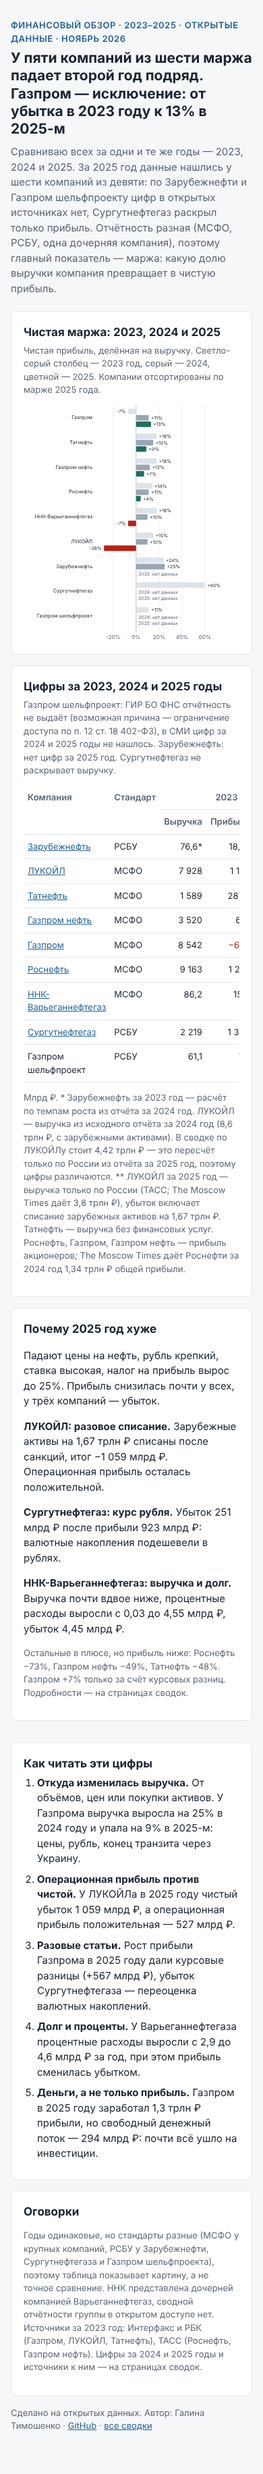
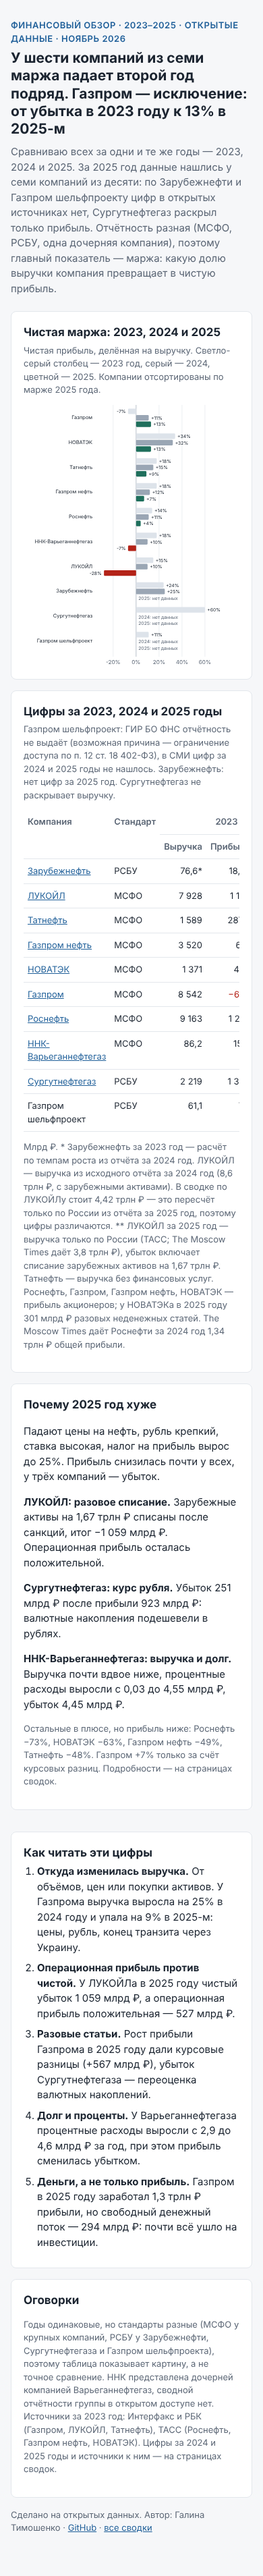
Сводка НОВАТЭК, НОВАТЭК в финансовом обзоре
Claude-Session: https://claude.ai/code/session_01HLBRy9kaRYRXUPTVXYMpj6

Changed region(s): [[0.0308, 0.0, 0.9231, 0.9951]]

diff --git a/novatek/index.html b/novatek/index.html
@@ -1,0 +1,168 @@
+<!doctype html>
+<html lang="ru">
+<head>
+<meta charset="utf-8">
+<meta name="viewport" content="width=device-width,initial-scale=1,viewport-fit=cover">
+<title>НОВАТЭК: сводка руководителя</title>
+<meta name="description" content="Сводка по НОВАТЭКу на открытых данных: МСФО 2023–2026, добыча, «Арктик СПГ 2», дивиденды. Подготовила Галина Тимошенко.">
+<style>
+:root{--red:#0B5CA8;--red-d:#0A3D6E;--ink:#1d1d1f;--mut:#6b6b70;--line:#e6e6e9;--bg:#ffffff;--soft:#eaf2fb;--amber:#C98A00;--green:#2E7D4F}
+*{box-sizing:border-box}
+body{margin:0;background:var(--bg);color:var(--ink);font:15px/1.5 -apple-system,"Segoe UI",Roboto,Arial,sans-serif}
+.wrap{max-width:1080px;margin:0 auto;padding:0 16px}
+header{background:#0A3D6E;color:#fff;padding:28px 0 22px}
+.kicker{font-size:13px;letter-spacing:.06em;text-transform:uppercase;opacity:.85}
+h1{font-size:28px;line-height:1.2;margin:6px 0 18px;max-width:880px}
+.kpis{display:grid;grid-template-columns:repeat(4,1fr);gap:12px}
+.kpi{background:#fff;color:var(--ink);border-radius:10px;padding:14px 14px 12px}
+.kpi b{display:block;font-size:26px;line-height:1.1;color:var(--red)}
+.kpi span{display:block;font-size:12.5px;color:var(--mut);margin-top:6px}
+.kpi em{font-style:normal;font-weight:600;color:var(--ink);font-size:13px}
+section{padding:26px 0 6px}
+h2{font-size:19px;margin:0 0 4px}
+.sub{color:var(--mut);font-size:13.5px;margin:0 0 14px}
+.grid2{display:grid;grid-template-columns:1fr 1fr;gap:18px}
+.card{border:1px solid var(--line);border-radius:12px;padding:16px;background:#fff}
+svg text{font-family:inherit}
+.tl{position:relative;margin:8px 0 0;padding:0;list-style:none}
+.tl li{position:relative;padding:0 0 16px 26px;border-left:2px solid var(--line);margin-left:6px}
+.tl li:last-child{border-left-color:transparent}
+.tl li::before{content:"";position:absolute;left:-7px;top:3px;width:12px;height:12px;border-radius:50%;background:#fff;border:2px solid var(--red)}
+.tl li.bad::before{background:var(--red)}
+.tl li.unk::before{border-style:dashed}
+.tl .d{font-weight:700;font-size:13px;color:var(--red-d)}
+.tl .t{display:block}
+.tl .s{font-size:12px;color:var(--mut)}
+.chips{display:flex;flex-wrap:wrap;gap:8px;margin:10px 0 4px}
+.chip{border:1px solid var(--red);color:var(--red-d);border-radius:999px;padding:3px 11px;font-size:13px}
+.chip.keep{background:var(--red);color:#fff}
+.note{font-size:12.5px;color:var(--mut)}
+.risks{display:grid;grid-template-columns:repeat(3,1fr);gap:14px}
+.risk{border-radius:12px;padding:14px 16px;border-top:5px solid}
+.risk.r{border-color:#C0392B;background:#fbf1f0}
+.risk.y{border-color:var(--amber);background:#fdf8ec}
+.risk.g{border-color:var(--green);background:#eff7f1}
+.risk h3{font-size:15px;margin:0 0 6px}
+.risk p{margin:0;font-size:13.5px}
+.tag{display:inline-block;font-size:11px;text-transform:uppercase;letter-spacing:.05em;color:var(--mut);margin-bottom:4px}
+table.g{width:100%;border-collapse:collapse;font-size:13.5px}table.g th,table.g td{text-align:left;padding:8px 8px;border-bottom:1px solid var(--line);vertical-align:top}table.g th{font-size:12px;color:var(--mut);font-weight:600}table.g td.n{white-space:nowrap;font-weight:700;color:var(--red-d)}.tw{overflow-x:auto}
+footer{margin:28px 0 0;padding:18px 0 28px;border-top:1px solid var(--line);font-size:12.5px;color:var(--mut)}
+footer ol{padding-left:18px;margin:8px 0}
+footer a{color:var(--red-d)}
+@media (max-width:820px){.kpis{grid-template-columns:1fr 1fr}.kpi b{font-size:20px;white-space:nowrap}.grid2,.risks{grid-template-columns:1fr}h1{font-size:23px}}
+</style>
+</head>
+<body>
+<header>
+  <div class="wrap">
+    <div class="kicker">НОВАТЭК · сводка на открытых данных · ноябрь 2026</div>
+    <h1>Прибыль НОВАТЭКа в 2025 году упала в 2,7 раза из-за разовых статей на 301 млрд ₽, их состав не раскрыт. Добыча при этом выросла</h1>
+    <div class="kpis">
+      <div class="kpi"><b>183 млрд ₽</b><em>прибыль акционеров, 2025</em><span>493,5 млрд ₽ в 2024</span></div>
+      <div class="kpi"><b>673 млн бнэ</b><em>добыча углеводородов, 2025</em><span>+0,9%; газ 84,6 млрд м³</span></div>
+      <div class="kpi"><b>39 млрд ₽</b><em>чистые деньги на конец 2025</em><span>денег больше, чем долга</span></div>
+      <div class="kpi"><b>82,73 ₽</b><em>дивиденд на акцию за 2025</em><span>35,50 за 1П + 47,23 за 2П</span></div>
+    </div>
+  </div>
+</header>
+<main class="wrap">
+  <section>
+    <h2>Финансы: выручка держится, прибыль упала</h2>
+    <p class="sub">МСФО, прибыль акционеров. 1П 2026 — только полгода.</p>
+    <div class="grid2">
+      <div class="card"><svg id="rev" viewBox="0 0 460 250" width="100%" role="img" aria-label="Выручка"></svg></div>
+      <div class="card"><svg id="np" viewBox="0 0 460 250" width="100%" role="img" aria-label="Прибыль акционеров"></svg></div>
+    </div>
+    <p class="note">В 2025 году компания отразила разовые неденежные статьи на 301 млрд ₽, их состав не раскрыт. Без курсовых разниц прибыль — 206,5 млрд ₽ (−62,7%). Нормализованная EBITDA с долей совместных предприятий — 859 млрд ₽ (−14,7%). Капзатраты сокращены на 22%, до 150 млрд ₽.</p>
+  </section>
+
+  <section>
+    <div class="grid2">
+      <div>
+        <h2>Что происходило</h2>
+        <ul class="tl">
+          <li class="bad"><span class="d">Декабрь 2023</span><span class="t">Запуск первой линии «Арктик СПГ 2». Проект под прямыми санкциями США</span></li>
+          <li class="unk"><span class="d">Май 2025</span><span class="t">Запуск второй линии; третья, по данным Нефтегаз.RU, может сдвинуться минимум на 2028 год</span></li>
+          <li><span class="d">28.08.2025</span><span class="t">Первый танкер с «Арктик СПГ 2» разгрузился в Китае</span></li>
+          <li class="bad"><span class="d">11.02.2026</span><span class="t">МСФО 2025: прибыль 183 млрд ₽, −63%, чистый долг сменился чистыми деньгами</span></li>
+          <li><span class="d">24.07.2026</span><span class="t">МСФО 1П 2026: выручка +3,9%, прибыль −3,1%</span></li>
+          <li class="bad"><span class="d">14.08.2026</span><span class="t">Атака беспилотников повредила комплекс в Усть-Луге (газоконденсат, 9 млн т в год); степень повреждений не раскрыта</span></li>
+          <li><span class="d">02.10.2026</span><span class="t">Акционеры одобрили дивиденд 35,5 ₽ за 1П 2026</span></li>
+        </ul>
+      </div>
+      <div>
+        <h2>Ключевые цифры</h2>
+        <div class="card tw">
+          <table class="g">
+            <tr><th>МСФО, млрд ₽</th><th>2024</th><th>2025</th><th>1П 2026</th></tr>
+            <tr><td>Выручка</td><td>1 546</td><td>1 446</td><td>836</td></tr>
+            <tr><td>Прибыль акционеров</td><td>493,5</td><td>183,0</td><td>218,7</td></tr>
+            <tr><td>Без курсовых разниц</td><td>—</td><td>206,5</td><td>216,5</td></tr>
+            <tr><td>EBITDA с долей СП</td><td>1 008</td><td>859</td><td>430</td></tr>
+            <tr><td>Капзатраты</td><td>193</td><td>150</td><td>—</td></tr>
+            <tr><td>Чистый долг</td><td>141,6</td><td>−39,3</td><td>—</td></tr>
+          </table>
+        </div>
+        <p class="note">Добыча 2025 года: 673 млн бнэ (+0,9%), газ 84,57 млрд м³ (+0,6%), жидкие углеводороды 14,11 млн т (+2,3%). Продажи газа с учётом СПГ — 76,6 млрд м³ (−1,5%). Данных о производстве СПГ в прочитанных источниках нет.</p>
+      </div>
+    </div>
+  </section>
+
+  <section>
+    <h2>Риски и возможности</h2>
+    <p class="sub">Это мои выводы из открытых фактов выше, а не данные и не позиция компании.</p>
+    <div class="risks">
+      <div class="risk r"><span class="tag">риск</span><h3>Санкции на СПГ</h3><p>«Арктик СПГ 2» под санкциями США: покупателей и танкеров мало, отгрузки в Китай начались только в августе 2025 года. Продажи газа падают при росте добычи.</p></div>
+      <div class="risk y"><span class="tag">внимание</span><h3>Непрозрачные списания</h3><p>301 млрд ₽ разовых статей 2025 года без расшифровки. Атака на Усть-Лугу в августе 2026 года может добавить расходы на ремонт.</p></div>
+      <div class="risk g"><span class="tag">возможность</span><h3>Денег больше, чем долга</h3><p>Компания закончила 2025 год с чистыми деньгами и продолжает платить дивиденды каждые полгода. Это запас прочности для достройки СПГ-проектов.</p></div>
+    </div>
+  </section>
+
+  <footer>
+    Сводка на открытых данных на 16.11.2026. Подготовила Галина Тимошенко; это не материал компании НОВАТЭК и не основано на внутренней информации. Где источники расходятся, это указано в тексте.
+    <ol>
+      <li><a href="https://nangs.org/news/business/bez-chistogo-dolga-novatek-v-2025-g-snizil-pribyl-otnosyashchuyusya-k-aktsioneram-v-2-7-raza">Нефтегаз.RU через НАНГС, 11.02.2026</a>, <a href="https://www.aton.ru/ideas/novatek_klyuchevye_rezultaty_za_vtoroe_polugodie_2025_goda/">АТОН, 11.02.2026</a>: МСФО 2025, разовые статьи, «Арктик СПГ 2»</li>
+      <li><a href="https://ru.themoscowtimes.com/2025/02/12/novatek-v-24g-uvelichil-pribyl-po-msfo-na-66-do-494-mlrd-r-a154905">The Moscow Times / Reuters, 12.02.2025</a>: МСФО 2024; <a href="https://finance.mail.ru/article/novatek-poluchil-pribyl-v-2023-godu-v-razmere-463-mlrd-rubley-59740700/">Мэйл Деньги / ТАСС, 09.02.2024</a>: МСФО 2023</li>
+      <li><a href="https://center.business-magazine.online/fn_1912261.html">Бизнес журнал, 24.07.2026</a>: МСФО 1П 2026</li>
+      <li><a href="https://paluba.media/news/207623">Медиапалуба, 20.01.2026</a>: добыча 2025</li>
+      <li><a href="https://eadaily.com/ru/news/2025/09/04/novatek-podtverdil-sankcionnyy-proekt-spg-nachal-otgruzki-v-kitay">EADaily, 04.09.2025</a>: «Арктик СПГ 2», отгрузки в Китай</li>
+      <li><a href="https://ru.themoscowtimes.com/2026/08/14/gazovii-zavod-novateka-nabaltike-poluchil-povrezhdeniya-posle-ataki-bpla-a203515">The Moscow Times / Reuters, 14.08.2026</a>: Усть-Луга</li>
+      <li><a href="https://depository.uralsib.ru/info/event_11032026080157_4396272.pdf">Сообщение о ГОСА, 11.03.2026</a>, <a href="https://finance.mail.ru/article/akcionery-novateka-odobrili-dividendy-za-i-polugodie-v-355-rublej-na-akciyu-69230664/">Мэйл Деньги, 02.10.2026</a>: дивиденды</li>
+    </ol>
+  </footer>
+</main>
+<script>
+const NS='http://www.w3.org/2000/svg';
+function el(t,a,p){const e=document.createElementNS(NS,t);for(const k in a)e.setAttribute(k,a[k]);if(p)p.appendChild(e);return e}
+function txt(p,x,y,s,a){const t=el('text',Object.assign({x,y},a||{}),p);t.textContent=s;return t}
+function bars(id,title,rows,fmt,foot){
+  const svg=document.getElementById(id),W=460,H=250,top=76,bot=40,l=16,r=16;
+  txt(svg,l,22,title,{'font-size':15,'font-weight':700,fill:'#1d1d1f'});
+  if(foot)txt(svg,l,42,foot,{'font-size':12,fill:'#6b6b70'});
+  const max=Math.max(...rows.map(d=>d.v)),span=H-top-bot,zero=H-bot,k=span/max,bw=(W-l-r)/rows.length;
+  el('line',{x1:l,x2:W-r,y1:zero,y2:zero,stroke:'#c9c9ce'},svg);
+  rows.forEach((d,i)=>{
+    const x=l+i*bw+bw*.2,w=bw*.6,h=d.v*k,y=zero-h;
+    el('rect',{x,y,width:w,height:Math.max(h,1),rx:4,fill:d.hl?'#0B5CA8':'#d9d9de'},svg);
+    txt(svg,x+w/2,y-6,fmt(d.v),{'text-anchor':'middle','font-size':13,'font-weight':700,fill:'#1d1d1f'});
+    txt(svg,x+w/2,H-14,d.k,{'text-anchor':'middle','font-size':12.5,fill:'#6b6b70'});
+  });
+}
+const f=v=>v.toLocaleString('ru-RU',{maximumFractionDigits:2});
+
+function bars3(id,title,rows,foot){
+  const svg=document.getElementById(id),W=460,H=250,top=foot?70:52,bot=40,l=16,r=16;
+  txt(svg,l,22,title,{'font-size':15,'font-weight':700,fill:'#1d1d1f'});
+  if(foot)txt(svg,l,42,foot,{'font-size':12,fill:'#6b6b70'});
+  const max=Math.max(...rows.map(d=>d.v)),span=H-top-bot,zero=H-bot,k=span/max,bw=(W-l-r)/rows.length;
+  el('line',{x1:l,x2:W-r,y1:zero,y2:zero,stroke:'#c9c9ce'},svg);
+  rows.forEach((d,i)=>{const x=l+i*bw+bw*.2,w=bw*.6,h=d.v*k,y=zero-h;
+    el('rect',{x,y,width:w,height:Math.max(h,1),rx:4,fill:d.hl?'#0B5CA8':(d.half?'#b9c3cf':'#d9d9de')},svg);
+    txt(svg,x+w/2,y-6,d.t||f(d.v),{'text-anchor':'middle','font-size':13,'font-weight':700,fill:'#1d1d1f'});
+    txt(svg,x+w/2,H-14,d.k,{'text-anchor':'middle','font-size':12.5,fill:'#6b6b70'});});
+}
+bars3('rev','Выручка, трлн ₽',[{k:'2023',v:1.371},{k:'2024',v:1.546},{k:'2025',v:1.446,hl:1},{k:'1П 2026',v:0.836,half:1}]);
+bars3('np','Прибыль акционеров, млрд ₽',[{k:'2023',v:463},{k:'2024',v:493.5},{k:'2025',v:183,hl:1},{k:'1П 2026',v:218.7,half:1}]);
+</script>
+</body>
+</html>

diff --git a/finance-review/index.html b/finance-review/index.html
@@ -33,8 +33,8 @@ svg{display:block;width:100%;height:auto}
 <body>
 <div class="wrap">
 <div class="eyebrow">Финансовый обзор · 2023–2025 · открытые данные · ноябрь 2026</div>
-<h1>У пяти компаний из шести маржа падает второй год подряд. Газпром — исключение: от убытка в 2023 году к 13% в 2025-м</h1>
-<p class="lead">Сравниваю всех за одни и те же годы — 2023, 2024 и 2025. За 2025 год данные нашлись у шести компаний из девяти: по Зарубежнефти и Газпром шельфпроекту цифр в открытых источниках нет, Сургутнефтегаз раскрыл только прибыль. Отчётность разная (МСФО, РСБУ, одна дочерняя компания), поэтому главный показатель — маржа: какую долю выручки компания превращает в чистую прибыль.</p>
+<h1>У шести компаний из семи маржа падает второй год подряд. Газпром — исключение: от убытка в 2023 году к 13% в 2025-м</h1>
+<p class="lead">Сравниваю всех за одни и те же годы — 2023, 2024 и 2025. За 2025 год данные нашлись у семи компаний из десяти: по Зарубежнефти и Газпром шельфпроекту цифр в открытых источниках нет, Сургутнефтегаз раскрыл только прибыль. Отчётность разная (МСФО, РСБУ, одна дочерняя компания), поэтому главный показатель — маржа: какую долю выручки компания превращает в чистую прибыль.</p>
 
 <div class="card">
  <h2>Чистая маржа: 2023, 2024 и 2025</h2>
@@ -52,13 +52,14 @@ svg{display:block;width:100%;height:auto}
   <tr><td><a href="../lukoil/">ЛУКОЙЛ</a></td><td>МСФО</td><td class="n">7 928</td><td class="n">1 155</td><td class="n">15%</td><td class="n">8 600</td><td class="n">848,5</td><td class="n"><b>10%</b></td><td class="n">3 767**</td><td class="n"><span class="neg">−1 059</span></td><td class="n"><b><span class="neg">−28%</span></b></td></tr>
   <tr><td><a href="../tatneft/">Татнефть</a></td><td>МСФО</td><td class="n">1 589</td><td class="n">287,9</td><td class="n">18%</td><td class="n">2 030</td><td class="n">306,1</td><td class="n"><b>15%</b></td><td class="n">1 820</td><td class="n">158,6</td><td class="n"><b>9%</b></td></tr>
   <tr><td><a href="../gazpromneft/">Газпром нефть</a></td><td>МСФО</td><td class="n">3 520</td><td class="n">641</td><td class="n">18%</td><td class="n">4 100</td><td class="n">479,5</td><td class="n"><b>12%</b></td><td class="n">3 607</td><td class="n">246</td><td class="n"><b>7%</b></td></tr>
+  <tr><td><a href="../novatek/">НОВАТЭК</a></td><td>МСФО</td><td class="n">1 371</td><td class="n">463</td><td class="n">34%</td><td class="n">1 546</td><td class="n">493,5</td><td class="n"><b>32%</b></td><td class="n">1 446</td><td class="n">183,0</td><td class="n"><b>13%</b></td></tr>
   <tr><td><a href="../gazprom/">Газпром</a></td><td>МСФО</td><td class="n">8 542</td><td class="n"><span class="neg">−629</span></td><td class="n"><span class="neg">−7%</span></td><td class="n">10 715</td><td class="n">1 219</td><td class="n"><b>11%</b></td><td class="n">9 771</td><td class="n">1 307</td><td class="n"><b>13%</b></td></tr>
   <tr><td><a href="../rosneft/">Роснефть</a></td><td>МСФО</td><td class="n">9 163</td><td class="n">1 267</td><td class="n">14%</td><td class="n">10 140</td><td class="n">1 084</td><td class="n"><b>11%</b></td><td class="n">8 236</td><td class="n">293</td><td class="n"><b>4%</b></td></tr>
   <tr><td><a href="../nnk/">ННК-Варьеганнефтегаз</a></td><td>МСФО</td><td class="n">86,2</td><td class="n">15,4</td><td class="n">18%</td><td class="n">112,5</td><td class="n">11,8</td><td class="n"><b>10%</b></td><td class="n">64,2</td><td class="n"><span class="neg">−4,45</span></td><td class="n"><b><span class="neg">−7%</span></b></td></tr>
   <tr><td><a href="../surgutneftegas/">Сургутнефтегаз</a></td><td>РСБУ</td><td class="n">2 219</td><td class="n">1 334</td><td class="n">60%</td><td class="n">не раскрыта</td><td class="n">923,3</td><td class="n"><b>—</b></td><td class="n">не раскрыта</td><td class="n"><span class="neg">−251,2</span></td><td class="n"><b>—</b></td></tr>
   <tr><td>Газпром шельфпроект</td><td>РСБУ</td><td class="n">61,1</td><td class="n">7,0</td><td class="n">11%</td><td class="n">—</td><td class="n">—</td><td class="n"><b>—</b></td><td class="n">—</td><td class="n">—</td><td class="n"><b>—</b></td></tr>
  </table></div>
- <p class="foot">Млрд ₽. * Зарубежнефть за 2023 год — расчёт по темпам роста из отчёта за 2024 год. ЛУКОЙЛ — выручка из исходного отчёта за 2024 год (8,6 трлн ₽, с зарубежными активами). В сводке по ЛУКОЙЛу стоит 4,42 трлн ₽ — это пересчёт только по России из отчёта за 2025 год, поэтому цифры различаются. ** ЛУКОЙЛ за 2025 год — выручка только по России (ТАСС; The Moscow Times даёт 3,8 трлн ₽), убыток включает списание зарубежных активов на 1,67 трлн ₽. Татнефть — выручка без финансовых услуг. Роснефть, Газпром, Газпром нефть — прибыль акционеров; The Moscow Times даёт Роснефти за 2024 год 1,34 трлн ₽ общей прибыли.</p>
+ <p class="foot">Млрд ₽. * Зарубежнефть за 2023 год — расчёт по темпам роста из отчёта за 2024 год. ЛУКОЙЛ — выручка из исходного отчёта за 2024 год (8,6 трлн ₽, с зарубежными активами). В сводке по ЛУКОЙЛу стоит 4,42 трлн ₽ — это пересчёт только по России из отчёта за 2025 год, поэтому цифры различаются. ** ЛУКОЙЛ за 2025 год — выручка только по России (ТАСС; The Moscow Times даёт 3,8 трлн ₽), убыток включает списание зарубежных активов на 1,67 трлн ₽. Татнефть — выручка без финансовых услуг. Роснефть, Газпром, Газпром нефть, НОВАТЭК — прибыль акционеров; у НОВАТЭКа в 2025 году 301 млрд ₽ разовых неденежных статей. The Moscow Times даёт Роснефти за 2024 год 1,34 трлн ₽ общей прибыли.</p>
 </div>
 
 <div class="grid2">
@@ -68,7 +69,7 @@ svg{display:block;width:100%;height:auto}
   <p><b>ЛУКОЙЛ: разовое списание.</b> Зарубежные активы на 1,67 трлн ₽ списаны после санкций, итог −1 059 млрд ₽. Операционная прибыль осталась положительной.</p>
   <p><b>Сургутнефтегаз: курс рубля.</b> Убыток 251 млрд ₽ после прибыли 923 млрд ₽: валютные накопления подешевели в рублях.</p>
   <p><b>ННК-Варьеганнефтегаз: выручка и долг.</b> Выручка почти вдвое ниже, процентные расходы выросли с 0,03 до 4,55 млрд ₽, убыток 4,45 млрд ₽.</p>
-  <p class="foot">Остальные в плюсе, но прибыль ниже: Роснефть −73%, Газпром нефть −49%, Татнефть −48%. Газпром +7% только за счёт курсовых разниц. Подробности — на страницах сводок.</p>
+  <p class="foot">Остальные в плюсе, но прибыль ниже: Роснефть −73%, НОВАТЭК −63%, Газпром нефть −49%, Татнефть −48%. Газпром +7% только за счёт курсовых разниц. Подробности — на страницах сводок.</p>
  </div>
  <div class="card">
   <h2>Как читать эти цифры</h2>
@@ -84,13 +85,13 @@ svg{display:block;width:100%;height:auto}
 
 <div class="card">
  <h2>Оговорки</h2>
- <p class="foot">Годы одинаковые, но стандарты разные (МСФО у крупных компаний, РСБУ у Зарубежнефти, Сургутнефтегаза и Газпром шельфпроекта), поэтому таблица показывает картину, а не точное сравнение. ННК представлена дочерней компанией Варьеганнефтегаз, сводной отчётности группы в открытом доступе нет. Источники за 2023 год: Интерфакс и РБК (Газпром, ЛУКОЙЛ, Татнефть), ТАСС (Роснефть, Газпром нефть). Цифры за 2024 и 2025 годы и источники к ним — на страницах сводок.</p>
+ <p class="foot">Годы одинаковые, но стандарты разные (МСФО у крупных компаний, РСБУ у Зарубежнефти, Сургутнефтегаза и Газпром шельфпроекта), поэтому таблица показывает картину, а не точное сравнение. ННК представлена дочерней компанией Варьеганнефтегаз, сводной отчётности группы в открытом доступе нет. Источники за 2023 год: Интерфакс и РБК (Газпром, ЛУКОЙЛ, Татнефть), ТАСС (Роснефть, Газпром нефть, НОВАТЭК). Цифры за 2024 и 2025 годы и источники к ним — на страницах сводок.</p>
 </div>
 
 <p class="foot">Сделано на открытых данных. Автор: Галина Тимошенко · <a href="https://github.com/GalaTimoshenko">GitHub</a> · <a href="../">все сводки</a></p>
 </div>
 <script>
-const D=[['Газпром',-7,11,13],['Татнефть',18,15,9],['Газпром нефть',18,12,7],['Роснефть',14,11,4],['ННК-Варьеганнефтегаз',18,10,-7],['ЛУКОЙЛ',15,10,-28],['Зарубежнефть',24,25,null],['Сургутнефтегаз',60,null,null],['Газпром шельфпроект',11,null,null]];
+const D=[['Газпром',-7,11,13],['НОВАТЭК',34,32,13],['Татнефть',18,15,9],['Газпром нефть',18,12,7],['Роснефть',14,11,4],['ННК-Варьеганнефтегаз',18,10,-7],['ЛУКОЙЛ',15,10,-28],['Зарубежнефть',24,25,null],['Сургутнефтегаз',60,null,null],['Газпром шельфпроект',11,null,null]];
 const NS='http://www.w3.org/2000/svg';
 function el(t,a,p){const e=document.createElementNS(NS,t);for(const k in a)e.setAttribute(k,a[k]);p&&p.appendChild(e);return e}
 function tx(p,x,y,s,a){const e=el('text',Object.assign({x,y,'font-size':13,fill:'#5b6675','font-family':'inherit'},a||{}),p);e.textContent=s;return e}

diff --git a/index.html b/index.html
@@ -33,10 +33,11 @@ footer{margin-top:32px;font-size:12px;color:var(--muted)}
     <a class="card" href="rosneft/"><b>Роснефть</b><span>Нефтяная компания · прибыль −73% в 2025, удары по НПЗ, долг дорожает · ноябрь 2026</span></a>
     <a class="card" href="tatneft/"><b>Татнефть</b><span>Нефтяная компания · прибыль вдвое ниже, продажа шинного бизнеса, восстановление в 2026 · ноябрь 2026</span></a>
     <a class="card" href="surgutneftegas/"><b>Сургутнефтегаз</b><span>Нефтяная компания · без долга, прибыль зависит от курса рубля, выручка не раскрывается · ноябрь 2026</span></a>
+    <a class="card" href="novatek/"><b>НОВАТЭК</b><span>Газ и СПГ · прибыль 2025 −63% на разовых статьях, «Арктик СПГ 2» под санкциями · ноябрь 2026</span></a>
     <a class="card" href="gazprom/"><b>Газпром</b><span>Газовая компания · Китай обогнал Европу, прибыль 2025 на курсовых разницах, долг 6,1 трлн ₽ · ноябрь 2026</span></a>
     <a class="card" href="gazpromneft/"><b>Газпром нефть</b><span>Нефтяная компания · рекордная добыча, прибыль вдвое ниже, санкции и продажа NIS · ноябрь 2026</span></a>
     <a class="card" href="nnk/"><b>ННК (Независимая нефтегазовая компания)</b><span>Нефтяная компания экс-главы «Роснефти» · Пайяха за 11 млрд $, 20 млн т добычи, состав группы, санкции · ноябрь 2026</span></a>
-    <a class="card" href="finance-review/"><b>Финансовый обзор</b><span>Девять нефтегазовых компаний за 2023–2025 годы: выручка, прибыль, маржа · ноябрь 2026</span></a>
+    <a class="card" href="finance-review/"><b>Финансовый обзор</b><span>Десять нефтегазовых компаний за 2023–2025 годы: выручка, прибыль, маржа · ноябрь 2026</span></a>
     <a class="card" href="volve-dcf/"><b>Volve: финмодель</b><span>Шельф Норвегии · DCF на открытых данных: NPV, IRR, окупаемость, чувствительность, Excel с формулами · ноябрь 2026</span></a>
   </div>
   <footer>Галина Тимошенко · аналитика и дашборды</footer>

diff --git a/novatek/novatek_facts.md b/novatek/novatek_facts.md
@@ -1,0 +1,20 @@
+# НОВАТЭК: факты из открытых источников (собрано 2026-11-16)
+
+| МСФО, млрд ₽ | 2023 | 2024 | 2025 | 1П 2026 |
+|---|---|---|---|---|
+| Выручка | 1 371 | 1 546 (+12,7%) | 1 445,6 (−6,5%) | 836,3 (+3,9%) |
+| Прибыль акционеров | 463 | 493,5 (+6,6%) | 183,0 (−62,9%) | 218,7 (−3,1%) |
+| Нормализованная прибыль (без курсовых) | — | — | 206,5 (−62,7%) | 216,5 (−8,7%) |
+| Нормализованная EBITDA с долей СП | 889,8 | 1 008 (+13%) | 859,3 (−14,7%) | 430,4 (−8,8%) |
+| Капзатраты | 223,8 | 193 (−13,8%) | 150,3 (−22,1%) | 91,7 (+20%, vc.ru) |
+| Чистый долг | 9,2 | 141,6 | чистые деньги 39,3 | долг отрицательный (vc.ru) |
+
+- 2025: компания называет разовые неденежные статьи на 301 млрд ₽, что это — не раскрыто (АТОН, nangs/Нефтегаз.RU, 11.02.2026).
+- 1П 2026: свободный денежный поток 80,5 млрд (−32,5%), налоговая ставка 8% → 17,4% — оценки автора vc.ru, не компании.
+- Добыча 2025: 673 млн бнэ (+0,9%), газ 84,57 млрд м³ (+0,6%), жидкие 14,11 млн т (+2,3%), продажи газа с СПГ 76,6 млрд м³ (−1,5%). paluba.media, abn.agency, 20.01.2026. Производство СПГ — не найдено.
+- Дивиденды: за 2025 год 35,50 (1П) + 47,23 (2П, предложено к ГОСА 01.04.2026) = 82,73 ₽; за 1П 2026 — 35,5 ₽, одобрено (Мэйл Деньги, 02.10.2026). Решение ГОСА по 47,23 не проверено.
+- Арктик СПГ 2: прямые санкции США; первая линия — декабрь 2023, вторая — май 2025, третья может сдвинуться минимум на 2028; 28.08.2025 первый танкер (Arctic Mulan) разгрузился в Китае (EADaily 04.09.2025; nangs).
+- Усть-Луга: 14.08.2026 повреждён комплекс фракционирования и перевалки газоконденсата (9 млн т/год, 3,8 млн т переработано в 1П 2026), степень повреждений не ясна (The Moscow Times / Reuters 14.08.2026).
+- Не проверено: структура акционеров, запрет ЕС на российский СПГ с 2027 (только vc.ru), атака в марте 2026 (только vc.ru).
+
+Источники: ru.themoscowtimes.com/2025/02/12/...a154905; finance.mail.ru/article/...-59740700 (ТАСС, 09.02.2024); investfuture.ru (11.02.2026); nangs.org/news/business/bez-chistogo-dolga-novatek-v-2025-g...; aton.ru/ideas/novatek_klyuchevye_rezultaty_za_vtoroe_polugodie_2025_goda; center.business-magazine.online/fn_1912261.html (24.07.2026); vc.ru/invest/3061113; paluba.media/news/207623; abn.agency 20.01.2026; eadaily.com 04.09.2025; ru.themoscowtimes.com/2026/08/14/...a203515; depository.uralsib.ru event_11032026080157_4396272.pdf; finance.mail.ru/article/...-69230664

diff --git a/README.md b/README.md
@@ -11,10 +11,11 @@
 | Роснефть — три года падения прибыли, удары по НПЗ | https://galatimoshenko.github.io/company-dashboards/rosneft/ |
 | Татнефть — прибыль и дивиденды 2025, восстановление 2026 | https://galatimoshenko.github.io/company-dashboards/tatneft/ |
 | Сургутнефтегаз — валютная подушка и курс рубля | https://galatimoshenko.github.io/company-dashboards/surgutneftegas/ |
+| НОВАТЭК — прибыль 2025 года −63% на разовых статьях, «Арктик СПГ 2» под санкциями | https://galatimoshenko.github.io/company-dashboards/novatek/ |
 | Газпром — Китай вместо Европы, прибыль на курсовых разницах | https://galatimoshenko.github.io/company-dashboards/gazprom/ |
 | Газпром нефть — рекордная добыча при падении прибыли, санкции и NIS | https://galatimoshenko.github.io/company-dashboards/gazpromneft/ |
 | ННК — продажа Пайяхи «Роснефти» и что стало с компанией | https://galatimoshenko.github.io/company-dashboards/nnk/ |
-| Финансовый обзор — выручка, прибыль и маржа девяти нефтегазовых компаний за 2023–2025 годы | https://galatimoshenko.github.io/company-dashboards/finance-review/ |
+| Финансовый обзор — выручка, прибыль и маржа десяти нефтегазовых компаний за 2023–2025 годы | https://galatimoshenko.github.io/company-dashboards/finance-review/ |
 | Volve — финмодель месторождения (DCF, Excel) | https://galatimoshenko.github.io/company-dashboards/volve-dcf/ |
 
 Как делаю: вопрос руководителя → факты с источниками → таблицы → выводы → одна страница. Страницы статичные (HTML + SVG), работают с телефона.
